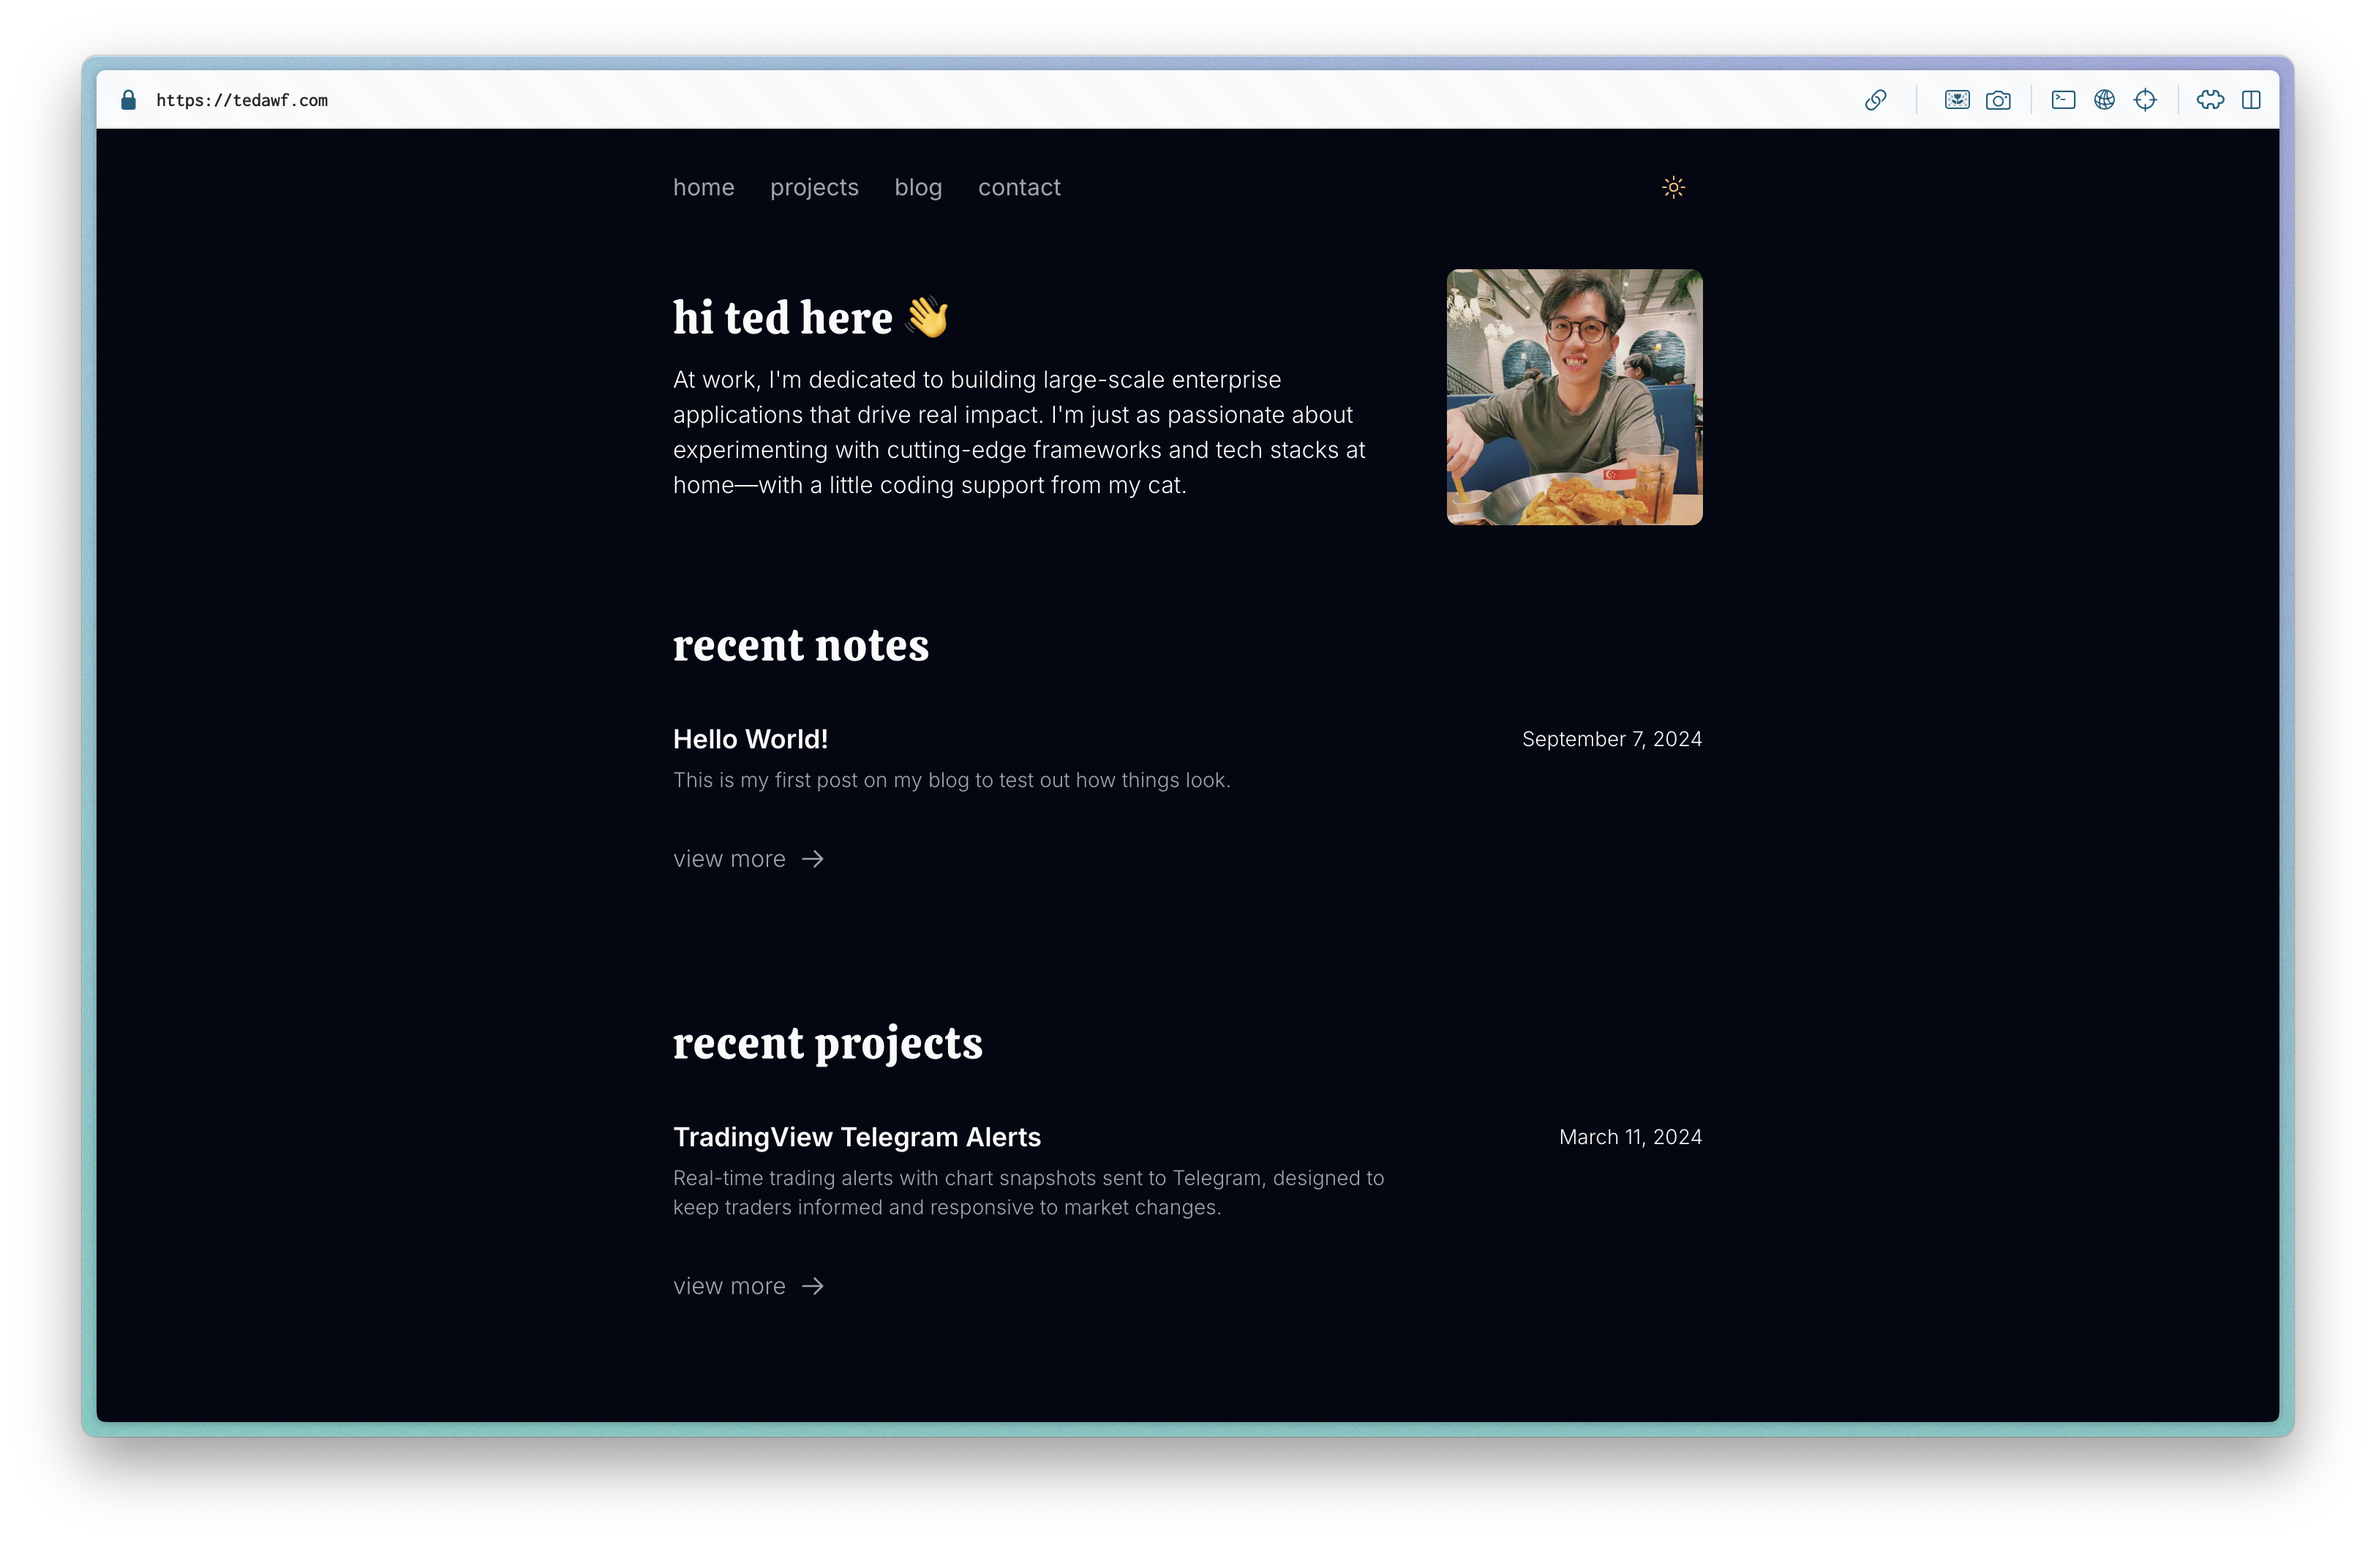
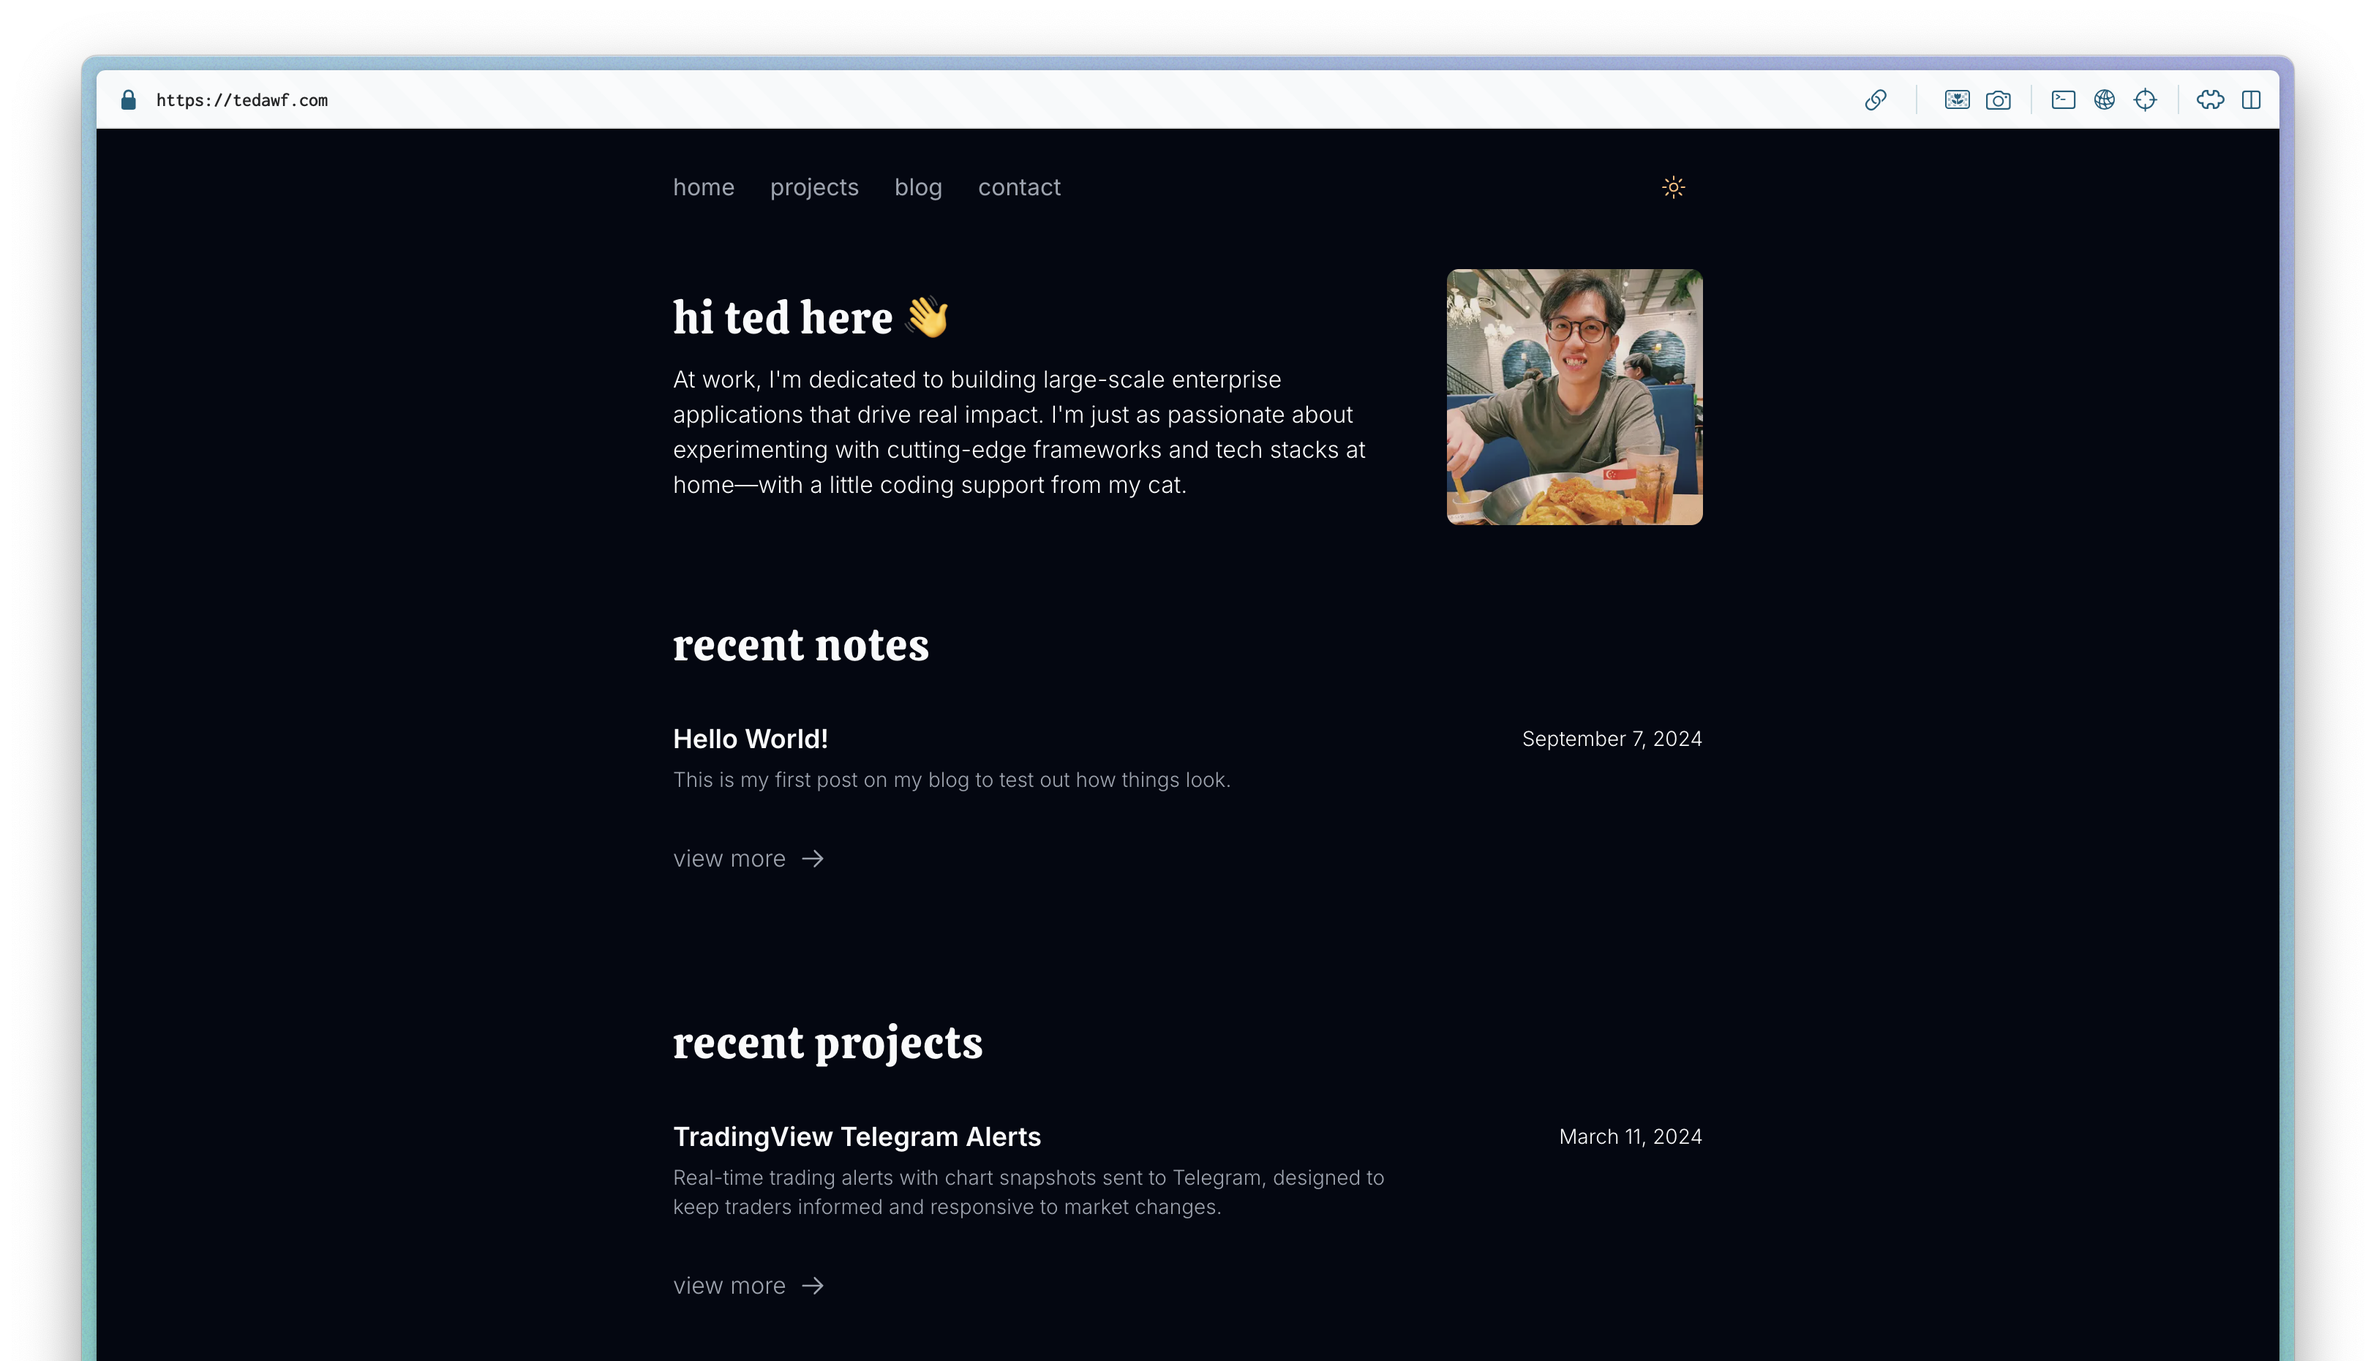
update links

diff --git a/src/app/page.tsx b/src/app/page.tsx
@@ -5,7 +5,11 @@ import Projects from "@/components/Projects";
 import Socials from "@/components/Socials";
 import { Button } from "@/components/ui/Button";
 import { getPosts } from "@/lib/posts";
-import { ArrowRightIcon, FileDown } from "lucide-react";
+import {
+  ArrowDownRight,
+  ArrowRightIcon,
+  FileDown
+} from "lucide-react";
 import Image from "next/image";
 import Link from "next/link";
 import path from "path";
@@ -36,8 +40,8 @@ export default async function Home() {
             -year-old <s>game</s> software developer from Singapore 🇸🇬
           </p>
           <p className="mt-2 font-light">
-            I like to develop full-stack, make instant coffee and get coding
-            advice from my cat{" "}
+            I like to develop full-stack, drink instant coffee and get coding
+            advice from my cat,{" "}
             <Link
               href="https://www.instagram.com/gomugomu.cat"
               target="_blank"
@@ -46,9 +50,10 @@ export default async function Home() {
               Luffy.
             </Link>
           </p>
-          <p className="mt-4 font-semibold">
-            Ask the chatbot anything about me!
-          </p>
+          <div className="mt-4 flex items-end gap-1">
+            <p className="font-semibold">Ask the chatbot anything about me</p>
+            <ArrowDownRight className="size-5 animate-bounce" />
+          </div>
           <section className="mt-8 flex items-center gap-8">
             <Link href="/resume.pdf" target="_blank">
               <Button variant="outline">
